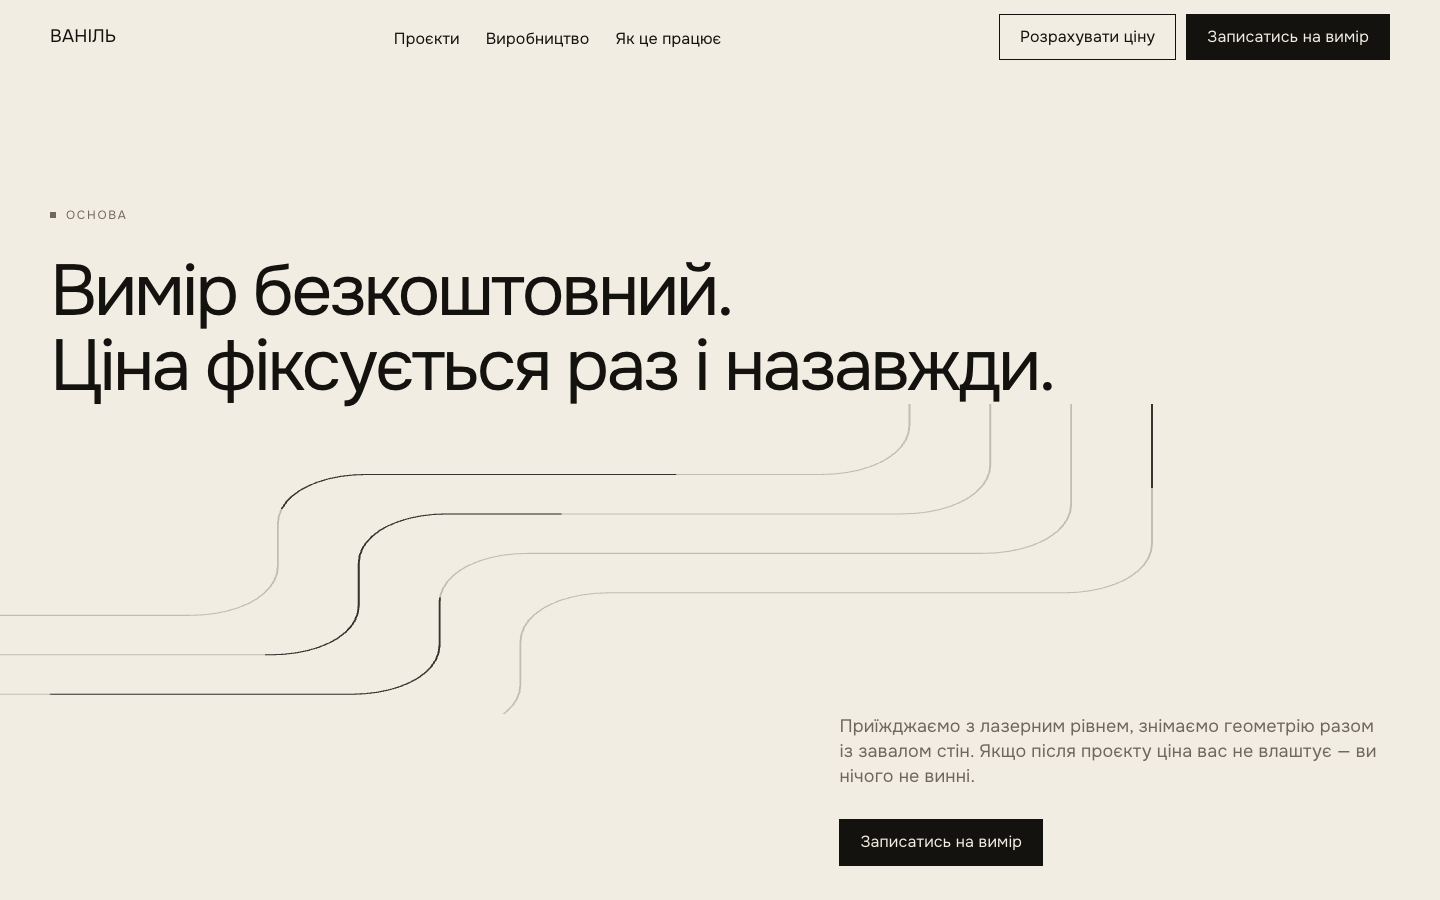
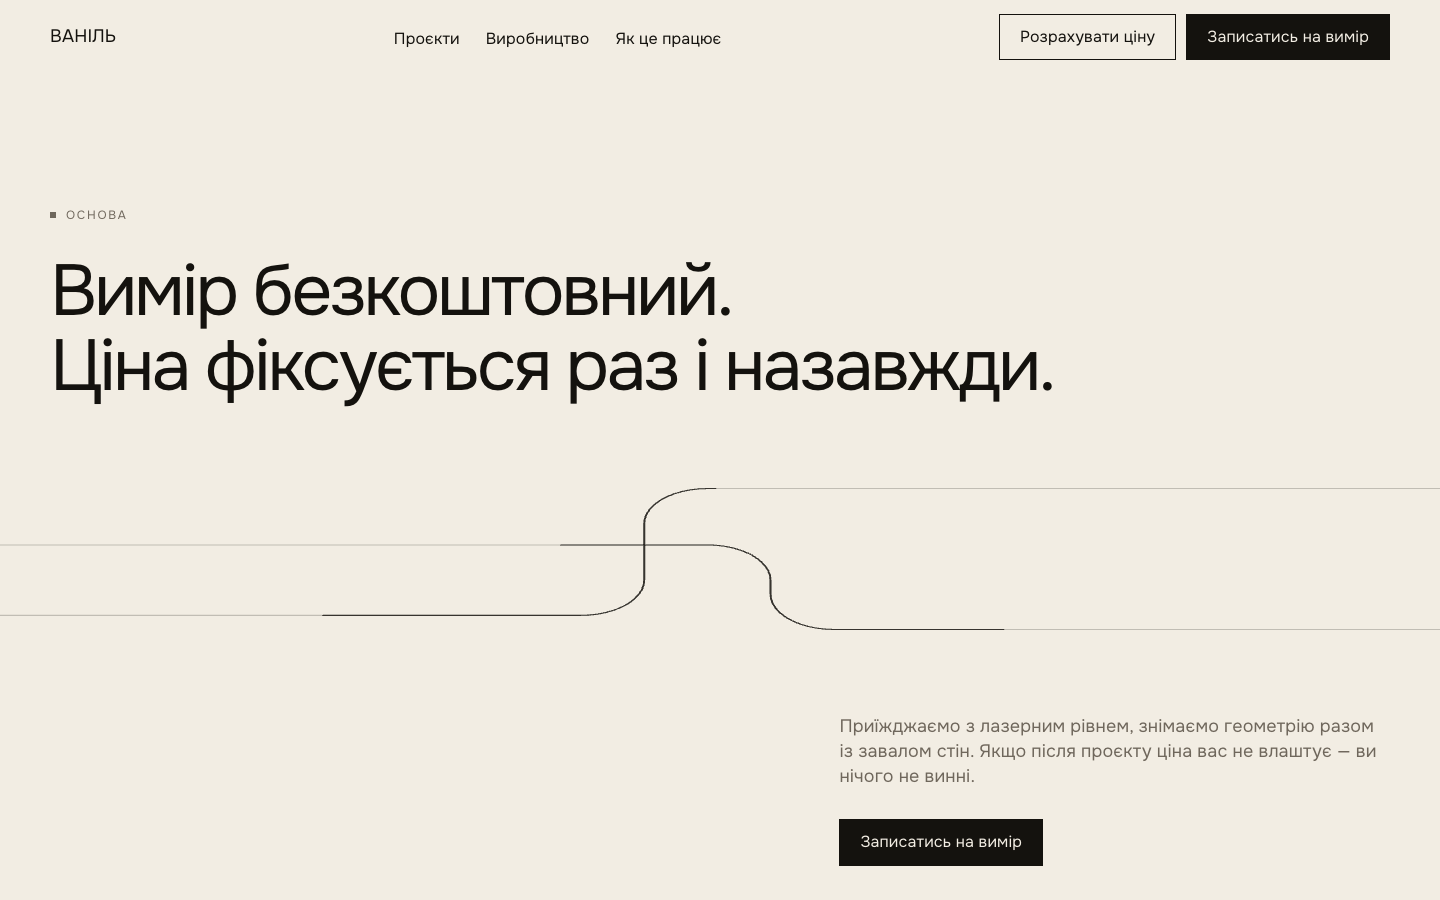
Рейка: колонки шапки по верхній лінії, абзац більше не лізе під шапку сайту
align-items:end саджав абзац на нижню лінію заголовка, а що абзац вищий,
його верх опинявся ВИЩЕ верху заголовка — і при скролі перший рядок першим
ховався під липку навігацію, читаючись як обрізаний.

Тепер align-items:start: заголовок і абзац починаються на одній висоті, як
у «Product Suite» на рефі. Перевірено: верхи обох на 74px, абзац більше не
виступає над заголовком.

diff --git a/assets/style.css b/assets/style.css
@@ -319,9 +319,10 @@ a:focus-visible,button:focus-visible,input:focus-visible,select:focus-visible,.c
              padding:var(--s-xl) 0;overflow:hidden}
 /* шапка за композицією референсу: великий заголовок ліворуч, абзац із дією —
    праворуч по краю поля, між ними й картками багато повітря */
-/* align-items:end саджає абзац і кнопку на нижню лінію заголовка — інакше
-   кнопка висіла посеред правої половини без жодної опори. */
-.rail__head{display:grid;grid-template-columns:1fr auto;align-items:end;
+/* Обидві колонки по верхній лінії — як у «Product Suite» на рефі, де
+   заголовок і абзац починаються на одній висоті. З align-items:end абзац,
+   вищий за заголовок, ліз угору й ховався під липкою шапкою. */
+.rail__head{display:grid;grid-template-columns:1fr auto;align-items:start;
             gap:var(--s-md) var(--s-2xl);padding:0 var(--g)}
 .rail__head h2{color:var(--w);max-width:14ch;
                font-size:clamp(34px,5vw,72px);line-height:1.04;letter-spacing:-.04em}
